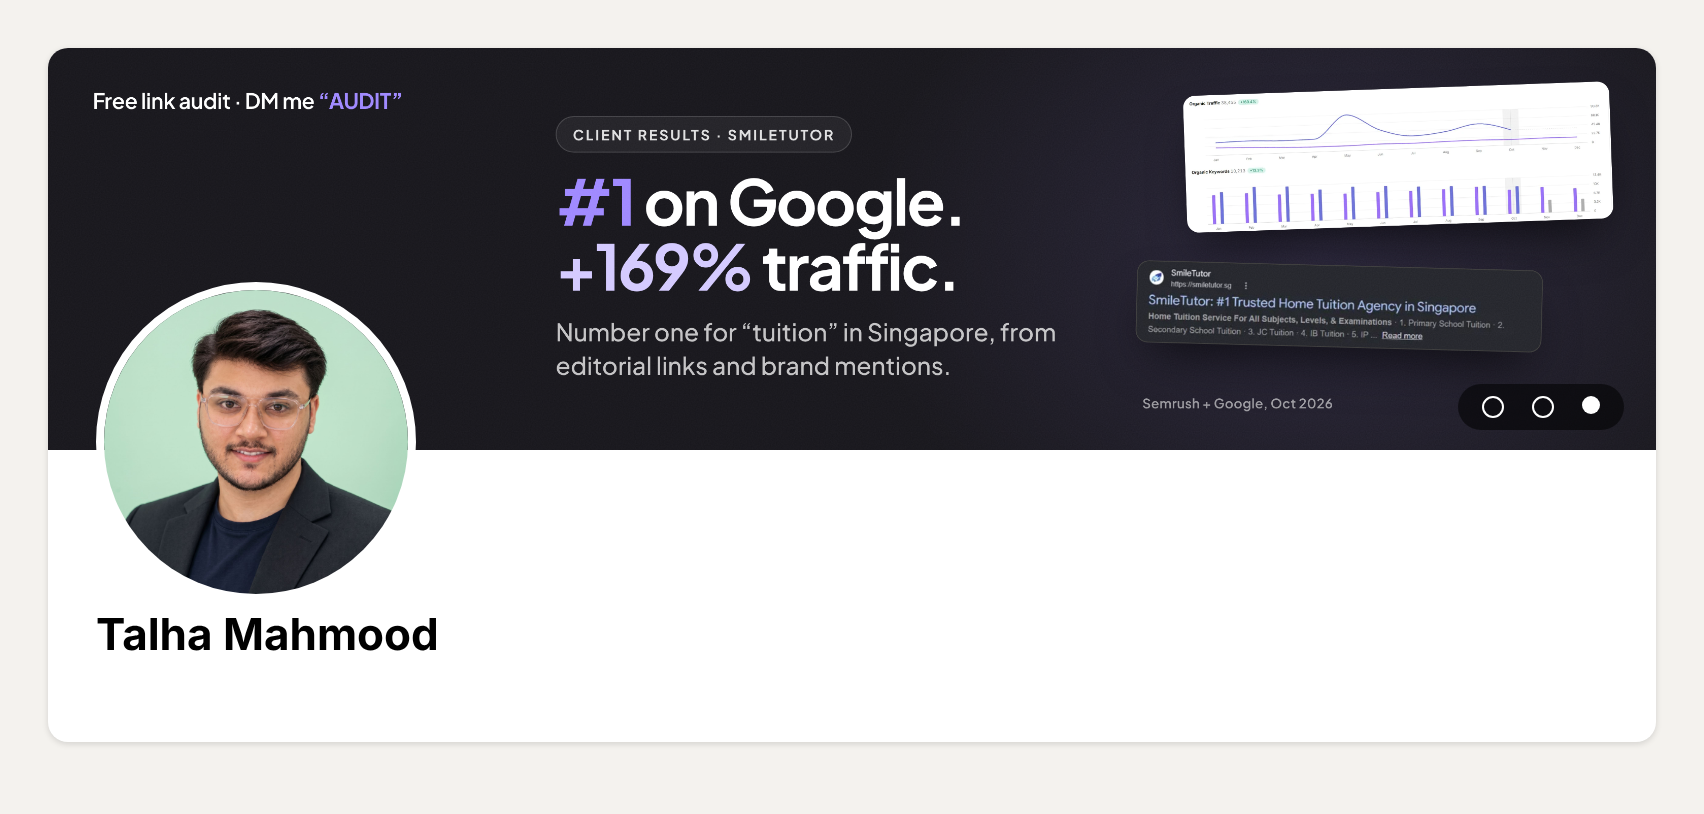
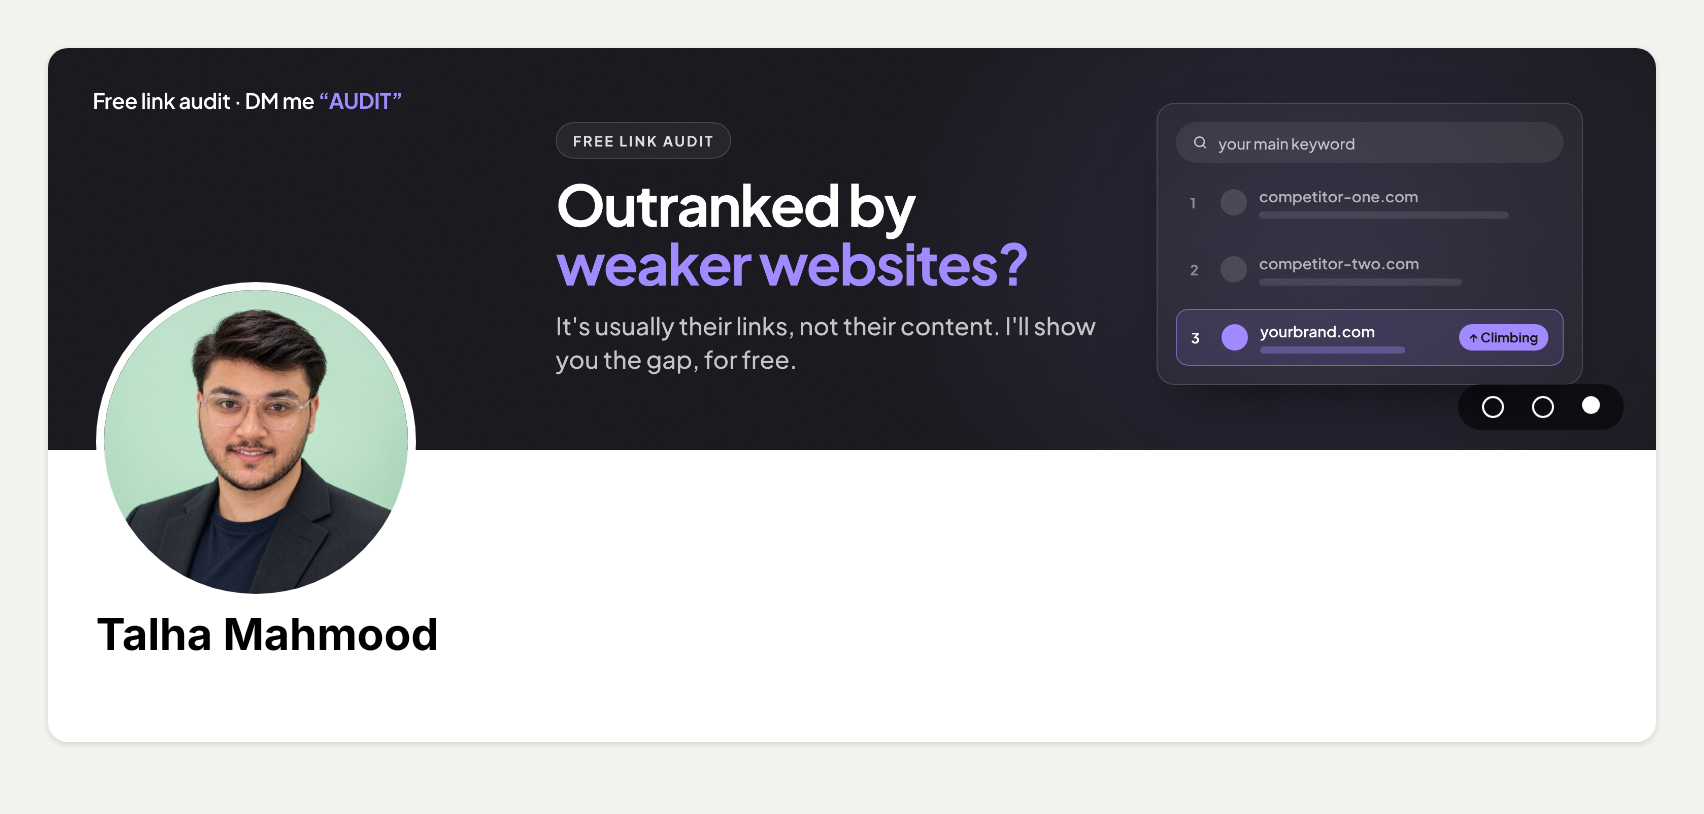
LinkedIn slideshow: positioning-only messaging (no clients, results or process), same design
Claude-Session: https://claude.ai/code/session_01RB5pCYgPZ9RaNRaU6MLX8J

diff --git a/docs/linkedin-banner/slideshow/slides.html b/docs/linkedin-banner/slideshow/slides.html
@@ -40,13 +40,15 @@
   .copy { position: absolute; left: 500px; top: 0; bottom: 0; display: flex; flex-direction: column; justify-content: center; }
   .label { align-self: flex-start; font-size: 14px; font-weight: 700; letter-spacing: 0.13em; text-transform: uppercase;
     color: rgb(255 255 255 / 0.86); padding: 8px 16px; border-radius: 999px; border: 1px solid var(--line); background: rgb(255 255 255 / 0.05); }
-  h1 { margin-top: 16px; font-size: 62px; line-height: 1.03; font-weight: 700; letter-spacing: -0.032em; }
+  h1 { margin-top: 16px; font-size: 56px; line-height: 1.03; font-weight: 700; letter-spacing: -0.032em; }
   .a { color: var(--violet); }
   .b { color: var(--lilac); }
   .sub { margin-top: 16px; font-size: 24px; line-height: 1.38; font-weight: 500; color: var(--muted); max-width: 560px; }
 
+  .sub s { text-decoration: none; position: relative; color: rgb(255 255 255 / 0.55); }
+  .sub s::after { content: ""; position: absolute; left: 0; right: 0; top: 54%; height: 2.5px; border-radius: 2px; background: var(--violet); transform: rotate(-2deg); }
+
   /* slide 1 */
-  .s1 .copy { bottom: 64px; }
   .trust { position: absolute; left: 500px; right: 470px; bottom: 0; height: 64px; border-top: 1px solid var(--line);
     display: flex; align-items: center; gap: 34px; }
   .trust span { font-size: 13px; font-weight: 700; letter-spacing: 0.16em; color: rgb(255 255 255 / 0.6); }
@@ -54,7 +56,7 @@
   .me-arms { position: absolute; right: 70px; top: -40px; height: 500px; filter: drop-shadow(0 22px 32px rgb(0 0 0 / 0.55)); }
 
   /* slide 2 */
-  .me-head { position: absolute; right: -6px; top: 26px; height: 370px; filter: drop-shadow(0 22px 32px rgb(0 0 0 / 0.55)); }
+  .me-head { position: absolute; right: -8px; top: 22px; height: 374px; filter: drop-shadow(0 22px 32px rgb(0 0 0 / 0.55)); }
   .steps { position: absolute; left: 1094px; top: 40px; width: 140px; display: flex; flex-direction: column; align-items: center; }
   .node { width: 60px; height: 60px; border-radius: 50%; display: grid; place-items: center;
     border: 1.5px dashed rgb(255 255 255 / 0.32); background: rgb(255 255 255 / 0.04); }
@@ -65,7 +67,25 @@
   .arrow { height: 22px; width: 1px; background: rgb(255 255 255 / 0.4); position: relative; margin: 5px 0; }
   .arrow::after { content: ""; position: absolute; left: -4px; bottom: -1px; border: 4.5px solid transparent; border-top: 6px solid rgb(255 255 255 / 0.55); }
 
-  /* slide 3 */
+  /* slide 3: a generic results list, "you" third and climbing */
+  .serp { position: absolute; left: 1092px; top: 54px; width: 420px; padding: 18px; border-radius: 18px;
+    background: rgb(255 255 255 / 0.04); border: 1px solid var(--line); box-shadow: 0 30px 60px -30px rgb(0 0 0 / 0.8); }
+  .q { display: flex; align-items: center; gap: 10px; height: 40px; padding: 0 16px; border-radius: 999px;
+    background: rgb(255 255 255 / 0.07); font-size: 15px; font-weight: 500; color: rgb(255 255 255 / 0.7); }
+  .q svg { width: 16px; height: 16px; stroke: rgb(255 255 255 / 0.7); fill: none; stroke-width: 2; stroke-linecap: round; }
+  .r { display: flex; align-items: center; gap: 12px; margin-top: 12px; padding: 11px 14px; border-radius: 12px; }
+  .r .n { width: 18px; font-size: 14px; font-weight: 700; color: rgb(255 255 255 / 0.45); }
+  .r .f { width: 26px; height: 26px; border-radius: 50%; background: rgb(255 255 255 / 0.12); flex: none; }
+  .r .t { flex: 1; }
+  .r .d { font-size: 15px; font-weight: 600; color: rgb(255 255 255 / 0.62); }
+  .r .bar { margin-top: 6px; height: 7px; border-radius: 4px; background: rgb(255 255 255 / 0.10); }
+  .r.you { background: rgb(157 134 255 / 0.12); border: 1px solid rgb(157 134 255 / 0.55); }
+  .r.you .d { color: var(--white); }
+  .r.you .f { background: var(--violet); }
+  .r.you .bar { background: rgb(157 134 255 / 0.35); }
+  .up { flex: none; font-size: 13px; font-weight: 700; color: var(--bg); background: var(--violet); border-radius: 999px; padding: 5px 10px; }
+
+  /* slide 3 (old evidence styles, unused) */
   .ev { position: absolute; border-radius: 12px; overflow: hidden; box-shadow: 0 24px 48px -16px rgb(0 0 0 / 0.7); border: 1px solid rgb(255 255 255 / 0.12); }
   .ev img { display: block; width: 100%; }
   .ev-chart { left: 1120px; top: 40px; width: 420px; background: #fff; transform: rotate(-2deg); }
@@ -82,14 +102,8 @@
   <p class="cta">Free link audit · DM me <b>“AUDIT”</b></p>
   <div class="copy">
     <span class="label">Link building &amp; digital PR</span>
-    <h1>Real <span class="a">publications.</span><br>Real <span class="b">rankings.</span></h1>
-    <p class="sub">Editorial backlinks for SaaS, agencies and growing brands. No PBNs. No link farms.</p>
-  </div>
-  <div class="trust">
-    <span>TRUSTED BY</span>
-    <img src="../assets/capcut.svg" style="height:21px" alt="CapCut">
-    <img src="../assets/smiletutor.svg" style="height:33px" alt="SmileTutor">
-    <img src="../assets/cryptodesk-mark.png" style="height:25px" alt="CryptoDesk">
+    <h1>Build <span class="a">authority links</span><br>that move <span class="b">your rankings.</span></h1>
+    <p class="sub">Forget <s>low-quality backlinks</s>. Every link lands on a real, trusted site.</p>
   </div>
   <div class="grain"></div>
 </section>
@@ -100,19 +114,9 @@
   <img class="me-head" src="../assets/talha-headshot-cutout.png" alt="Talha Mahmood">
   <p class="cta">Free link audit · DM me <b>“AUDIT”</b></p>
   <div class="copy">
-    <span class="label">How every link is placed</span>
-    <h1>Vetted <span class="a">by hand.</span><br>Placed <span class="b">by editors.</span></h1>
-    <p class="sub">Every site passes a 7-point check before your link goes live. About 1 in 5 doesn't make it.</p>
-  </div>
-  <div class="steps">
-    <div class="node"><svg viewBox="0 0 24 24"><circle cx="11" cy="11" r="7"/><path d="m20 20-3.6-3.6"/><path d="m8.5 11 1.8 1.8 3.4-3.4"/></svg></div>
-    <div class="step-l">7-point site check</div>
-    <div class="arrow"></div>
-    <div class="node"><svg viewBox="0 0 24 24"><path d="M12 20h9"/><path d="M16.5 3.5a2.12 2.12 0 0 1 3 3L7 19l-4 1 1-4Z"/></svg></div>
-    <div class="step-l">Article written</div>
-    <div class="arrow"></div>
-    <div class="node end"><svg viewBox="0 0 24 24"><path d="M10 13a5 5 0 0 0 7.54.54l3-3a5 5 0 0 0-7.07-7.07l-1.72 1.71"/><path d="M14 11a5 5 0 0 0-7.54-.54l-3 3a5 5 0 0 0 7.07 7.07l1.71-1.71"/></svg></div>
-    <div class="step-l">Link live + report</div>
+    <span class="label">White-hat link building</span>
+    <h1>Links that <span class="a">last.</span><br>Rankings that <span class="b">grow.</span></h1>
+    <p class="sub">Placed on real sites with real readers. No PBNs, no link farms, no shortcuts.</p>
   </div>
   <div class="grain"></div>
 </section>
@@ -122,13 +126,16 @@
   <div class="light"></div>
   <p class="cta">Free link audit · DM me <b>“AUDIT”</b></p>
   <div class="copy">
-    <span class="label">Client results · SmileTutor</span>
-    <h1><span class="a">#1</span> on Google.<br><span class="b">+169%</span> traffic.</h1>
-    <p class="sub">Number one for “tuition” in Singapore, from editorial links and brand mentions.</p>
+    <span class="label">Free link audit</span>
+    <h1>Outranked by<br><span class="a">weaker websites?</span></h1>
+    <p class="sub">It's usually their links, not their content. I'll show you the gap, for free.</p>
   </div>
-  <div class="ev ev-chart"><img src="../assets/proof-semrush.png" alt="Semrush organic traffic, +169.4%"></div>
-  <div class="ev ev-serp"><img src="../assets/proof-serp.png" alt="SmileTutor ranking first on Google for tuition"></div>
-  <p class="ev-tag">Semrush + Google, Oct 2026</p>
+  <div class="serp" aria-hidden="true">
+    <div class="q"><svg viewBox="0 0 24 24"><circle cx="11" cy="11" r="7"/><path d="m20 20-3.6-3.6"/></svg>your main keyword</div>
+    <div class="r"><span class="n">1</span><span class="f"></span><span class="t"><div class="d">competitor-one.com</div><div class="bar" style="width:86%"></div></span></div>
+    <div class="r"><span class="n">2</span><span class="f"></span><span class="t"><div class="d">competitor-two.com</div><div class="bar" style="width:70%"></div></span></div>
+    <div class="r you"><span class="n" style="color:#fff">3</span><span class="f"></span><span class="t"><div class="d">yourbrand.com</div><div class="bar" style="width:78%"></div></span><span class="up">↑ Climbing</span></div>
+  </div>
   <div class="grain"></div>
 </section>
 

diff --git a/docs/linkedin-banner/slideshow/STRATEGY.md b/docs/linkedin-banner/slideshow/STRATEGY.md
@@ -72,17 +72,28 @@ look like one brand because **only the message and the picture change**:
 - **Photos:** your two real cutouts (arms crossed; head and shoulders), so
   slide 1 and slide 2 don't repeat the same picture.
 
-## 5. The three slides
+## 5. Content rules (from the owner, round 2)
 
-| # | Job | Label | Headline | Visual |
-|---|---|---|---|---|
-| 1 | Who you are and what you sell | LINK BUILDING & DIGITAL PR | Real publications. / Real rankings. | You, arms crossed + "Trusted by" CapCut, SmileTutor, CryptoDesk |
-| 2 | How you work (why it's safe) | HOW EVERY LINK IS PLACED | Vetted by hand. / Placed by editors. | 3-step line: site check → article → live link, + your headshot |
-| 3 | Proof | CLIENT RESULTS · SMILETUTOR | #1 on Google. / +169% traffic. | SmileTutor's real Semrush chart and its #1 Google result, as supporting evidence |
+The design was right; the first wording read like website or CV copy. A
+banner's only job is a strong first impression and clear positioning.
 
-On slide 3 the numbers are the headline: screenshots shrink to about half
-size on a real profile and can't be read, but "#1" and "+169%" at headline
-size can, on any screen.
+- One strong message per slide, said the way an SEO link building expert
+  would say it. The model is the owner's own line: "Forget low-quality
+  backlinks. Build authority links that move your rankings."
+- **No** client names or logos, no project results, no internal process
+  (e.g. "7-point check"), no lists of services. That belongs in the
+  profile, Featured section and website.
+- Every line must make sense to someone who knows nothing about us.
 
-Order on LinkedIn: 1 → 2 → 3. Slide 1 is the one to use alone if you're
-not on Premium Business.
+## 6. The three slides
+
+| # | Job | Label | Headline | Subline | Visual |
+|---|---|---|---|---|---|
+| 1 | The promise | LINK BUILDING & DIGITAL PR | Build **authority links** / that move **your rankings.** | Forget ~~low-quality backlinks~~. Every link lands on a real, trusted site. | You, arms crossed |
+| 2 | The difference | WHITE-HAT LINK BUILDING | Links that **last.** / Rankings that **grow.** | Placed on real sites with real readers. No PBNs, no link farms, no shortcuts. | Your headshot |
+| 3 | The conversation starter | FREE LINK AUDIT | Outranked by / **weaker websites?** | It's usually their links, not their content. I'll show you the gap, for free. | A generic results list: "yourbrand.com" third, climbing |
+
+Same on every slide: "Free link audit · DM me 'AUDIT'" top left.
+
+Order on LinkedIn: 1 → 2 → 3. Slide 1 is the one to use alone if the
+account isn't on Premium Business.
